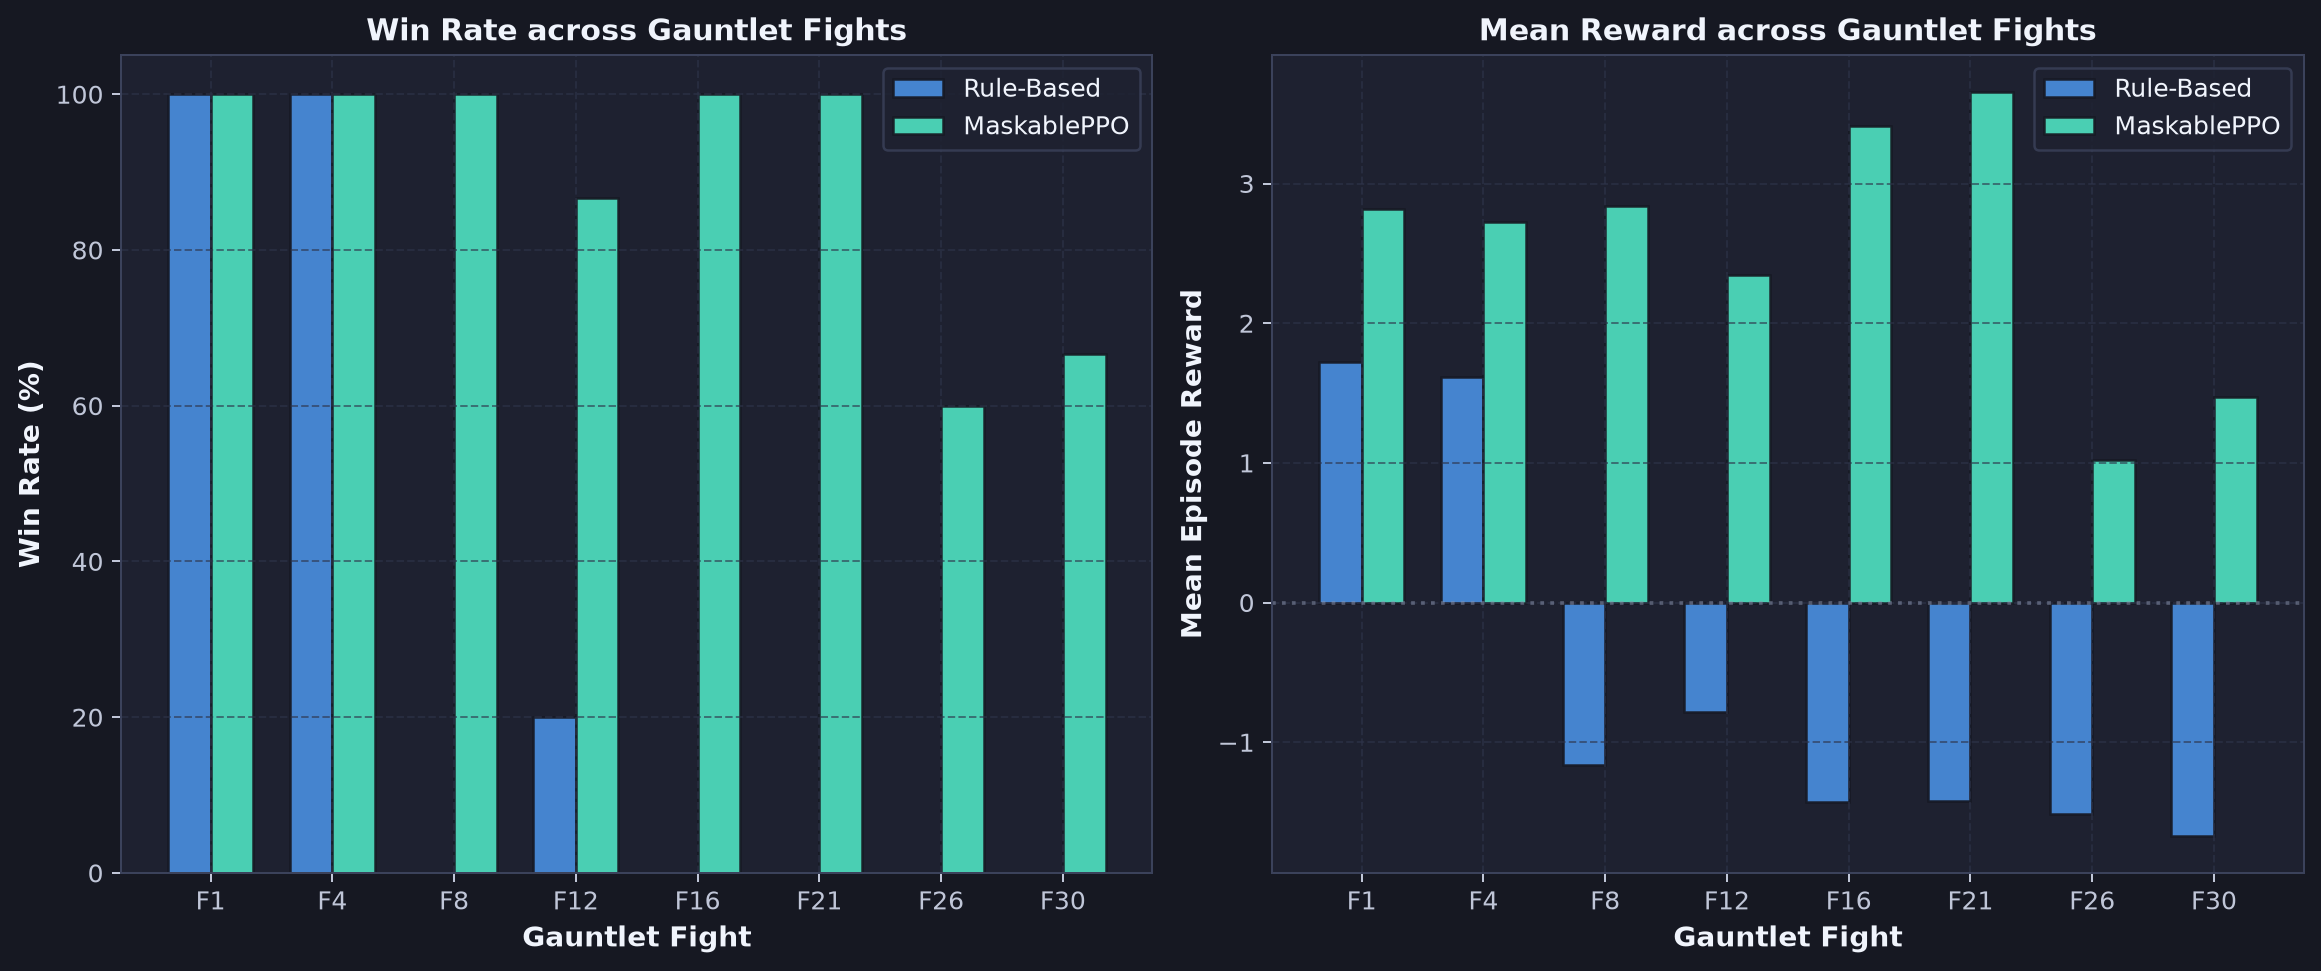
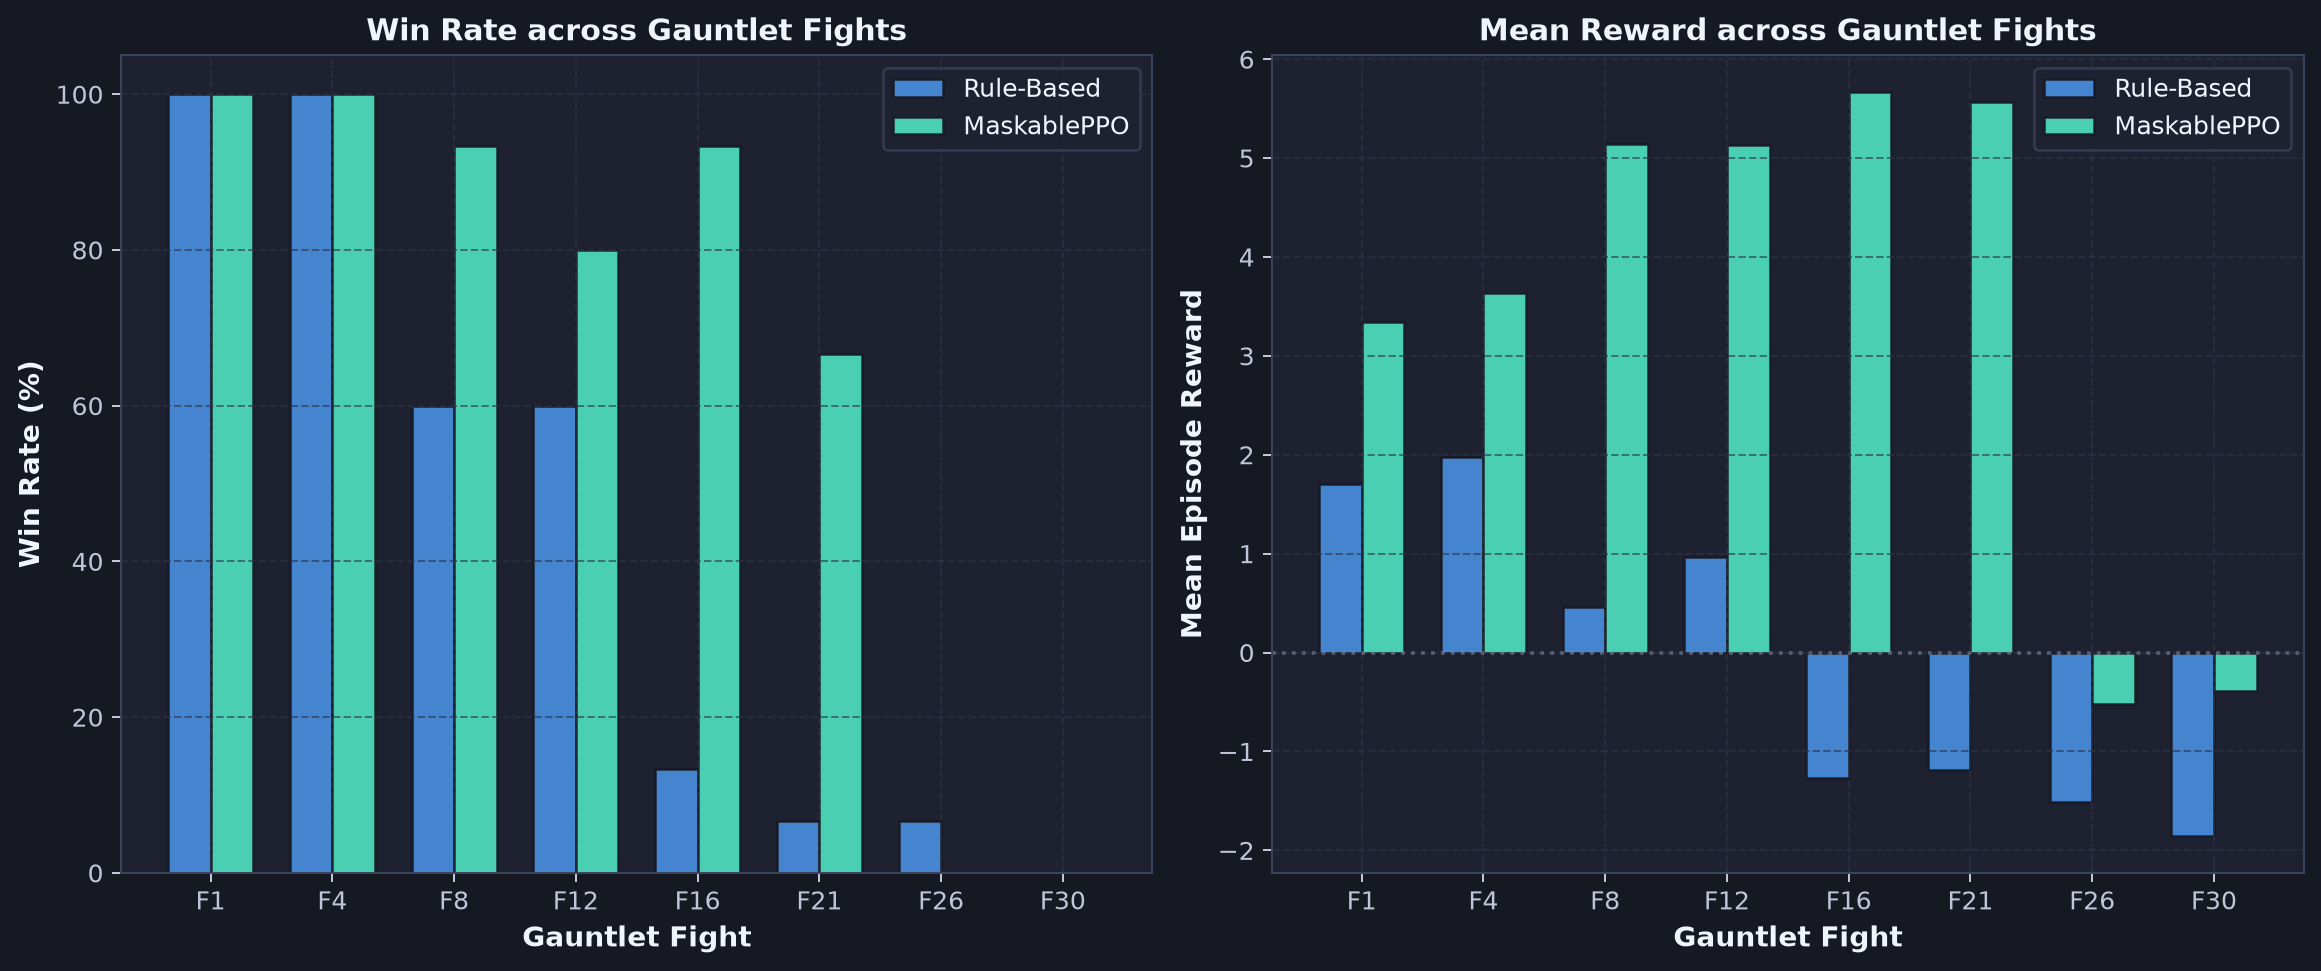
Revolver curriculum training, combined benchmark, weapon comparison plots

diff --git a/plot_results.py b/plot_results.py
@@ -5,8 +5,9 @@ Reads:
 - Benchmark CSV reports from results/
 
 Outputs:
-- plots/training_curves.png: Episode reward & length over training timesteps
-- plots/benchmark_comparison.png: Win rate & reward across gauntlet fights
+- plots/training_curves.png          : Episode reward & length for latest training run
+- plots/benchmark_comparison.png     : Win rate & reward across gauntlet fights (latest CSV)
+- plots/weapon_comparison.png        : Katana vs Revolver RL agent side-by-side comparison
 """
 
 import argparse
@@ -24,12 +25,10 @@ def plot_training_curves(runs_dir: str = "runs", out_path: str = "plots/training
         print(f"No monitor CSV files found in '{runs_dir}'")
         return
 
-    # Sort to pick the latest run
     monitor_files.sort(key=os.path.getmtime, reverse=True)
     latest_file = monitor_files[0]
     print(f"Plotting training curves from: {latest_file}")
 
-    # Monitor CSVs have 1 line of metadata comment, then columns: r, l, t
     df = pd.read_csv(latest_file, skiprows=1)
     if df.empty or "r" not in df.columns:
         print("Monitor CSV is empty or missing reward column.")
@@ -49,7 +48,6 @@ def plot_training_curves(runs_dir: str = "runs", out_path: str = "plots/training
         for spine in ax.spines.values():
             spine.set_color("#3b425b")
 
-    # Plot 1: Episode Reward
     ax1.plot(df["cumulative_steps"], df["r"], color="#4a7ebb", alpha=0.3, label="Episode Reward")
     ax1.plot(df["cumulative_steps"], df["rolling_reward"], color="#60d394", linewidth=2.2, label=f"Smoothed ({rolling_window} ep)")
     ax1.axhline(0.0, color="#8b95af", linestyle=":", alpha=0.5)
@@ -57,9 +55,7 @@ def plot_training_curves(runs_dir: str = "runs", out_path: str = "plots/training
     ax1.set_title("Training Reward Progression", color="#f0f4fc", fontsize=13, fontweight="bold")
     ax1.legend(loc="upper left", facecolor="#1e2130", edgecolor="#3b425b", labelcolor="#f0f4fc")
 
-    # Plot 2: Episode Length (Frames / Steps)
-    ax1_color = "#ee964b"
-    ax2.plot(df["cumulative_steps"], df["l"], color=ax1_color, alpha=0.4, label="Episode Steps")
+    ax2.plot(df["cumulative_steps"], df["l"], color="#ee964b", alpha=0.4, label="Episode Steps")
     rolling_len = df["l"].rolling(window=rolling_window, min_periods=1).mean()
     ax2.plot(df["cumulative_steps"], rolling_len, color="#f95738", linewidth=2.0, label="Smoothed Steps")
     ax2.set_xlabel("Environment Timesteps", color="#f0f4fc", fontsize=11, fontweight="bold")
@@ -75,7 +71,7 @@ def plot_training_curves(runs_dir: str = "runs", out_path: str = "plots/training
 
 
 def plot_benchmark_comparison(results_dir: str = "results", out_path: str = "plots/benchmark_comparison.png"):
-    """Plot win rate and reward comparison from evaluation reports."""
+    """Plot win rate and reward comparison from latest evaluation report."""
     csv_files = glob.glob(os.path.join(results_dir, "*.csv"))
     if not csv_files:
         print(f"No evaluation reports found in '{results_dir}'")
@@ -107,12 +103,11 @@ def plot_benchmark_comparison(results_dir: str = "results", out_path: str = "plo
     x = np.arange(len(fights))
     width = 0.35
 
-    # Subplot 1: Win Rate (%)
     for i, agent in enumerate(agents):
         sub_df = df[df["agent"] == agent].sort_values("fight")
         agent_rates = [sub_df[sub_df["fight"] == f]["win_rate"].values[0] if len(sub_df[sub_df["fight"] == f]) > 0 else 0.0 for f in fights]
         offset = -width / 2 if i == 0 else width / 2
-        col = colors.get(agent, "#ffbb00" if i > 1 else "#e74c3c")
+        col = colors.get(agent, "#ffbb00")
         ax1.bar(x + offset, agent_rates, width, label=agent, color=col, edgecolor="#161822", alpha=0.9)
 
     ax1.set_xlabel("Gauntlet Fight", color="#f0f4fc", fontsize=11, fontweight="bold")
@@ -123,12 +118,11 @@ def plot_benchmark_comparison(results_dir: str = "results", out_path: str = "plo
     ax1.set_ylim(0, 105)
     ax1.legend(loc="upper right", facecolor="#1e2130", edgecolor="#3b425b", labelcolor="#f0f4fc")
 
-    # Subplot 2: Mean Reward
     for i, agent in enumerate(agents):
         sub_df = df[df["agent"] == agent].sort_values("fight")
         agent_rews = [sub_df[sub_df["fight"] == f]["mean_reward"].values[0] if len(sub_df[sub_df["fight"] == f]) > 0 else -2.0 for f in fights]
         offset = -width / 2 if i == 0 else width / 2
-        col = colors.get(agent, "#ffbb00" if i > 1 else "#e74c3c")
+        col = colors.get(agent, "#ffbb00")
         ax2.bar(x + offset, agent_rews, width, label=agent, color=col, edgecolor="#161822", alpha=0.9)
 
     ax2.set_xlabel("Gauntlet Fight", color="#f0f4fc", fontsize=11, fontweight="bold")
@@ -146,16 +140,94 @@ def plot_benchmark_comparison(results_dir: str = "results", out_path: str = "plo
     print(f"Saved benchmark comparison plot to: {out_path}")
 
 
+def plot_weapon_comparison(
+    katana_csv: str,
+    revolver_csv: str,
+    out_path: str = "plots/weapon_comparison.png",
+):
+    """Side-by-side Katana vs Revolver RL agent comparison across all gauntlet fights."""
+    if not os.path.exists(katana_csv):
+        print(f"Katana CSV not found: {katana_csv}")
+        return
+    if not os.path.exists(revolver_csv):
+        print(f"Revolver CSV not found: {revolver_csv}")
+        return
+
+    dk = pd.read_csv(katana_csv)
+    dr = pd.read_csv(revolver_csv)
+
+    # Keep only MaskablePPO rows from each
+    dk = dk[dk["agent"] == "MaskablePPO"].sort_values("fight")
+    dr = dr[dr["agent"] == "MaskablePPO"].sort_values("fight")
+
+    fights = sorted(dk["fight"].unique())
+    x = np.arange(len(fights))
+    width = 0.35
+
+    fig, axes = plt.subplots(1, 3, figsize=(18, 6))
+    fig.patch.set_facecolor("#161822")
+    fig.suptitle("MaskablePPO: Katana vs Revolver — Full Gauntlet (30 Fights)", color="#f0f4fc", fontsize=14, fontweight="bold", y=1.02)
+
+    metrics = [
+        ("win_rate",        "Win Rate (%)",             "Win Rate across All Fights"),
+        ("mean_reward",     "Mean Episode Reward",       "Reward across All Fights"),
+        ("mean_hearts_lost","Mean Hearts Lost / Episode","Hearts Lost across All Fights"),
+    ]
+
+    katana_color   = "#60d394"   # green
+    revolver_color = "#ee964b"   # orange
+
+    for ax, (col, ylabel, title) in zip(axes, metrics):
+        ax.set_facecolor("#1e2130")
+        ax.grid(True, color="#2e344a", linestyle="--", alpha=0.6)
+        ax.tick_params(colors="#c0c6d8")
+        for spine in ax.spines.values():
+            spine.set_color("#3b425b")
+
+        k_vals = [dk[dk["fight"] == f][col].values[0] if len(dk[dk["fight"] == f]) > 0 else 0.0 for f in fights]
+        r_vals = [dr[dr["fight"] == f][col].values[0] if len(dr[dr["fight"] == f]) > 0 else 0.0 for f in fights]
+
+        ax.bar(x - width / 2, k_vals, width, label="Katana",   color=katana_color,   edgecolor="#161822", alpha=0.9)
+        ax.bar(x + width / 2, r_vals, width, label="Revolver", color=revolver_color, edgecolor="#161822", alpha=0.9)
+
+        if col == "win_rate":
+            ax.set_ylim(0, 108)
+        elif col == "mean_reward":
+            ax.axhline(0.0, color="#8b95af", linestyle=":", alpha=0.5)
+        elif col == "mean_hearts_lost":
+            ax.set_ylim(0, max(max(k_vals), max(r_vals)) * 1.25 + 0.5)
+
+        ax.set_xticks(x)
+        ax.set_xticklabels([f"F{f}" for f in fights], fontsize=9)
+        ax.set_xlabel("Gauntlet Fight", color="#f0f4fc", fontsize=10, fontweight="bold")
+        ax.set_ylabel(ylabel, color="#f0f4fc", fontsize=10, fontweight="bold")
+        ax.set_title(title, color="#f0f4fc", fontsize=11, fontweight="bold")
+        ax.legend(loc="upper right", facecolor="#1e2130", edgecolor="#3b425b", labelcolor="#f0f4fc")
+
+    plt.tight_layout()
+    os.makedirs(os.path.dirname(out_path), exist_ok=True)
+    plt.savefig(out_path, dpi=180, facecolor=fig.get_facecolor(), bbox_inches="tight")
+    plt.close()
+    print(f"Saved weapon comparison plot to: {out_path}")
+
+
 def main():
     parser = argparse.ArgumentParser(description="Generate plots for Boss Gauntlet training and benchmarks")
-    parser.add_argument("--runs-dir", type=str, default="runs", help="Directory containing monitor logs")
-    parser.add_argument("--results-dir", type=str, default="results", help="Directory containing eval CSVs")
-    parser.add_argument("--out-dir", type=str, default="plots", help="Directory to save generated PNGs")
+    parser.add_argument("--runs-dir",        type=str, default="runs",    help="Directory containing monitor logs")
+    parser.add_argument("--results-dir",     type=str, default="results", help="Directory containing eval CSVs")
+    parser.add_argument("--out-dir",         type=str, default="plots",   help="Directory to save generated PNGs")
+    parser.add_argument("--katana-csv",      type=str, default="results/eval_report_1790962623.csv")
+    parser.add_argument("--revolver-csv",    type=str, default="results/eval_report_1791204312.csv")
     args = parser.parse_args()
 
     os.makedirs(args.out_dir, exist_ok=True)
     plot_training_curves(runs_dir=args.runs_dir, out_path=os.path.join(args.out_dir, "training_curves.png"))
     plot_benchmark_comparison(results_dir=args.results_dir, out_path=os.path.join(args.out_dir, "benchmark_comparison.png"))
+    plot_weapon_comparison(
+        katana_csv=args.katana_csv,
+        revolver_csv=args.revolver_csv,
+        out_path=os.path.join(args.out_dir, "weapon_comparison.png"),
+    )
 
 
 if __name__ == "__main__":
